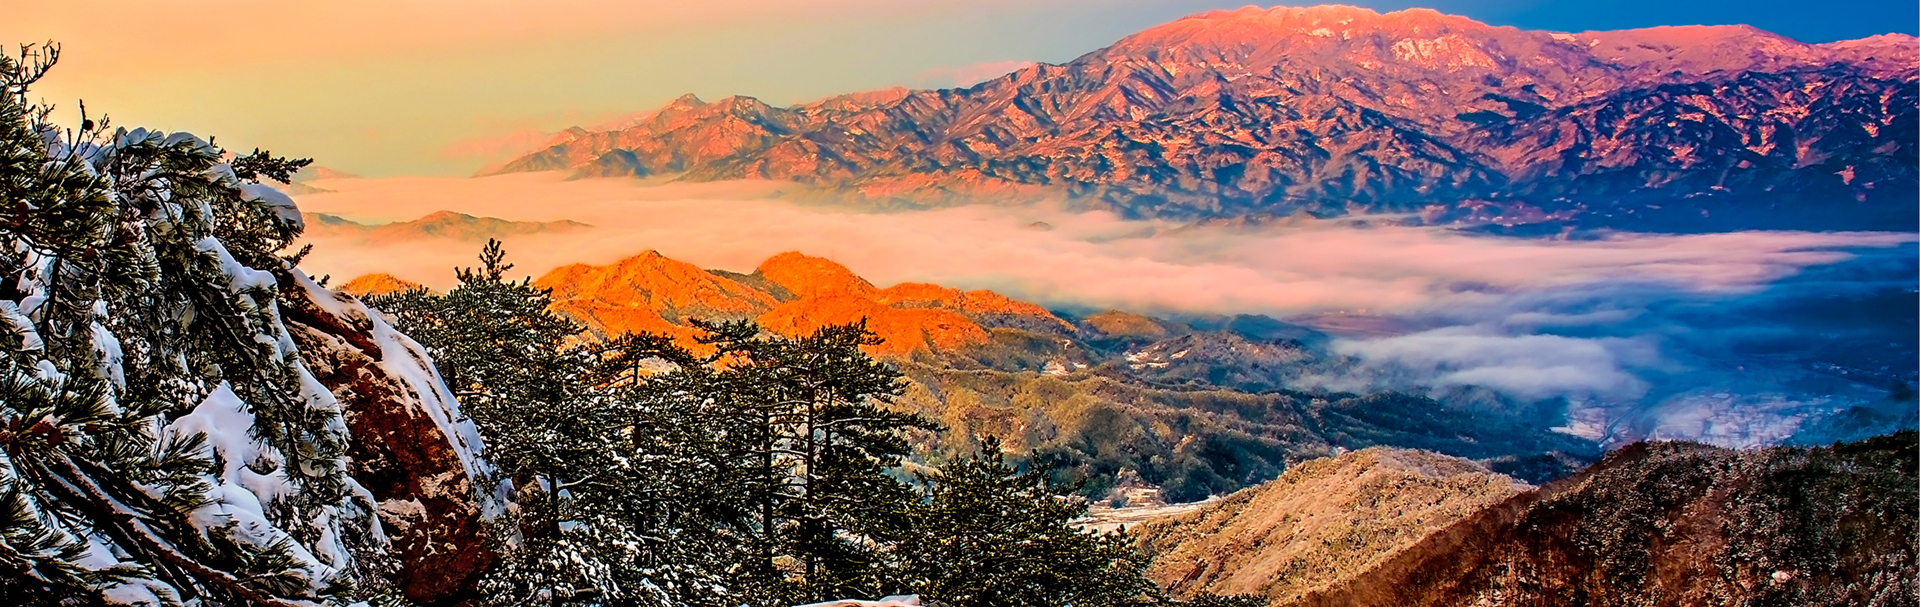
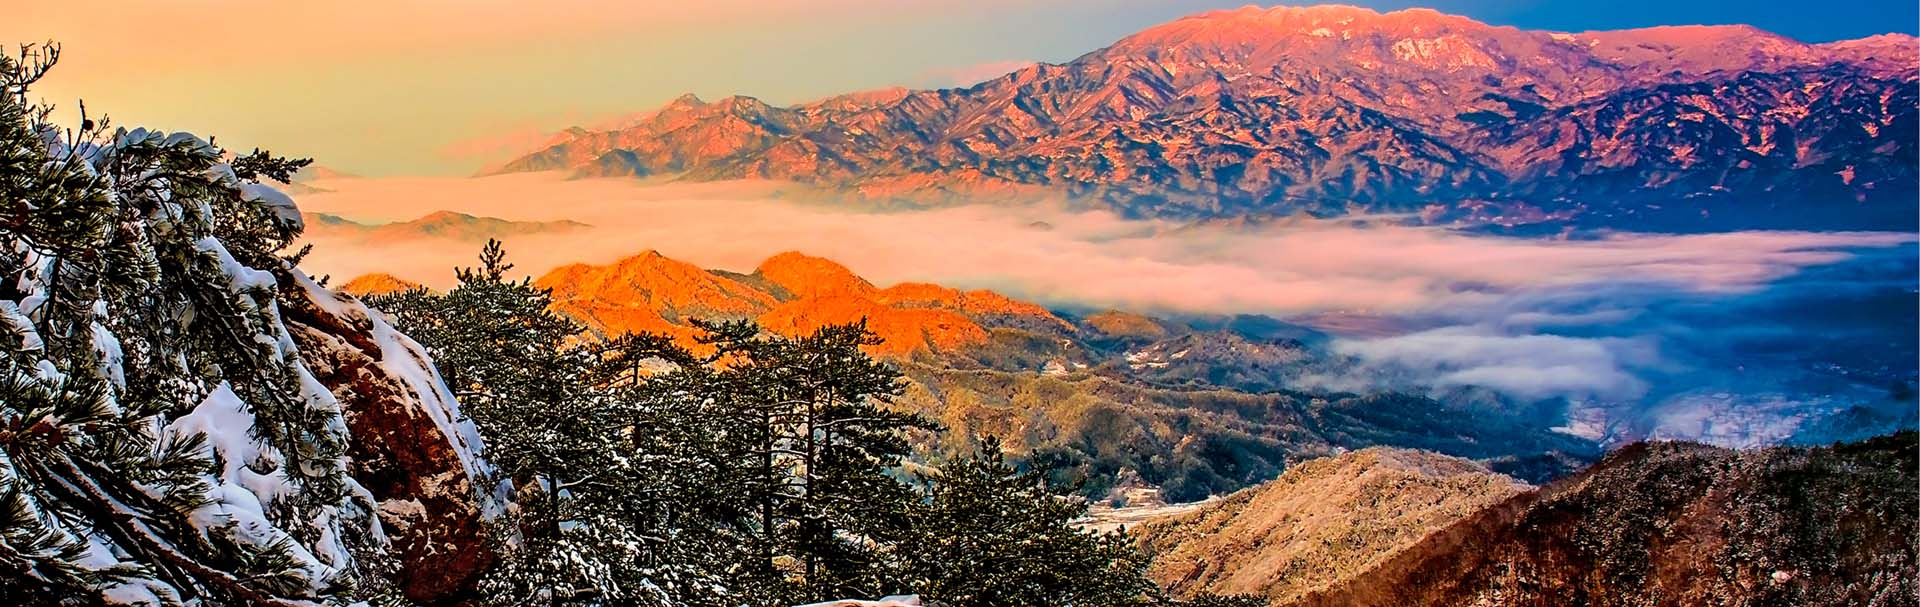
更换支付宝账户；压缩首页轮播图；修复orders.js中cover为空的bug

diff --git a/WebContent/static/js/orders.js b/WebContent/static/js/orders.js
@@ -140,9 +140,13 @@ function loadBookings() {
 	BookingManager.getBookingsByUid(uid, orderby, desc, function(bookings) {
 		$("#order-list").mengularClear();
 		for(var i in bookings) {
+			var src="static/images/noImage.jpg";
+			if(bookings[i].room.cover!=null) {
+				src= "upload"+"/"+bookings[i].room.rid+"/"+bookings[i].room.cover.filename;
+			}
 			$("#order-list").mengular(".order-list-template", {
 				bid: bookings[i].bid,
-				src: "upload"+"/"+bookings[i].room.rid+"/"+bookings[i].room.cover.filename,
+				src: src,
 				bno: bookings[i].bno,
 				rid: bookings[i].room.rid,
 				rname: bookings[i].room.rname,
